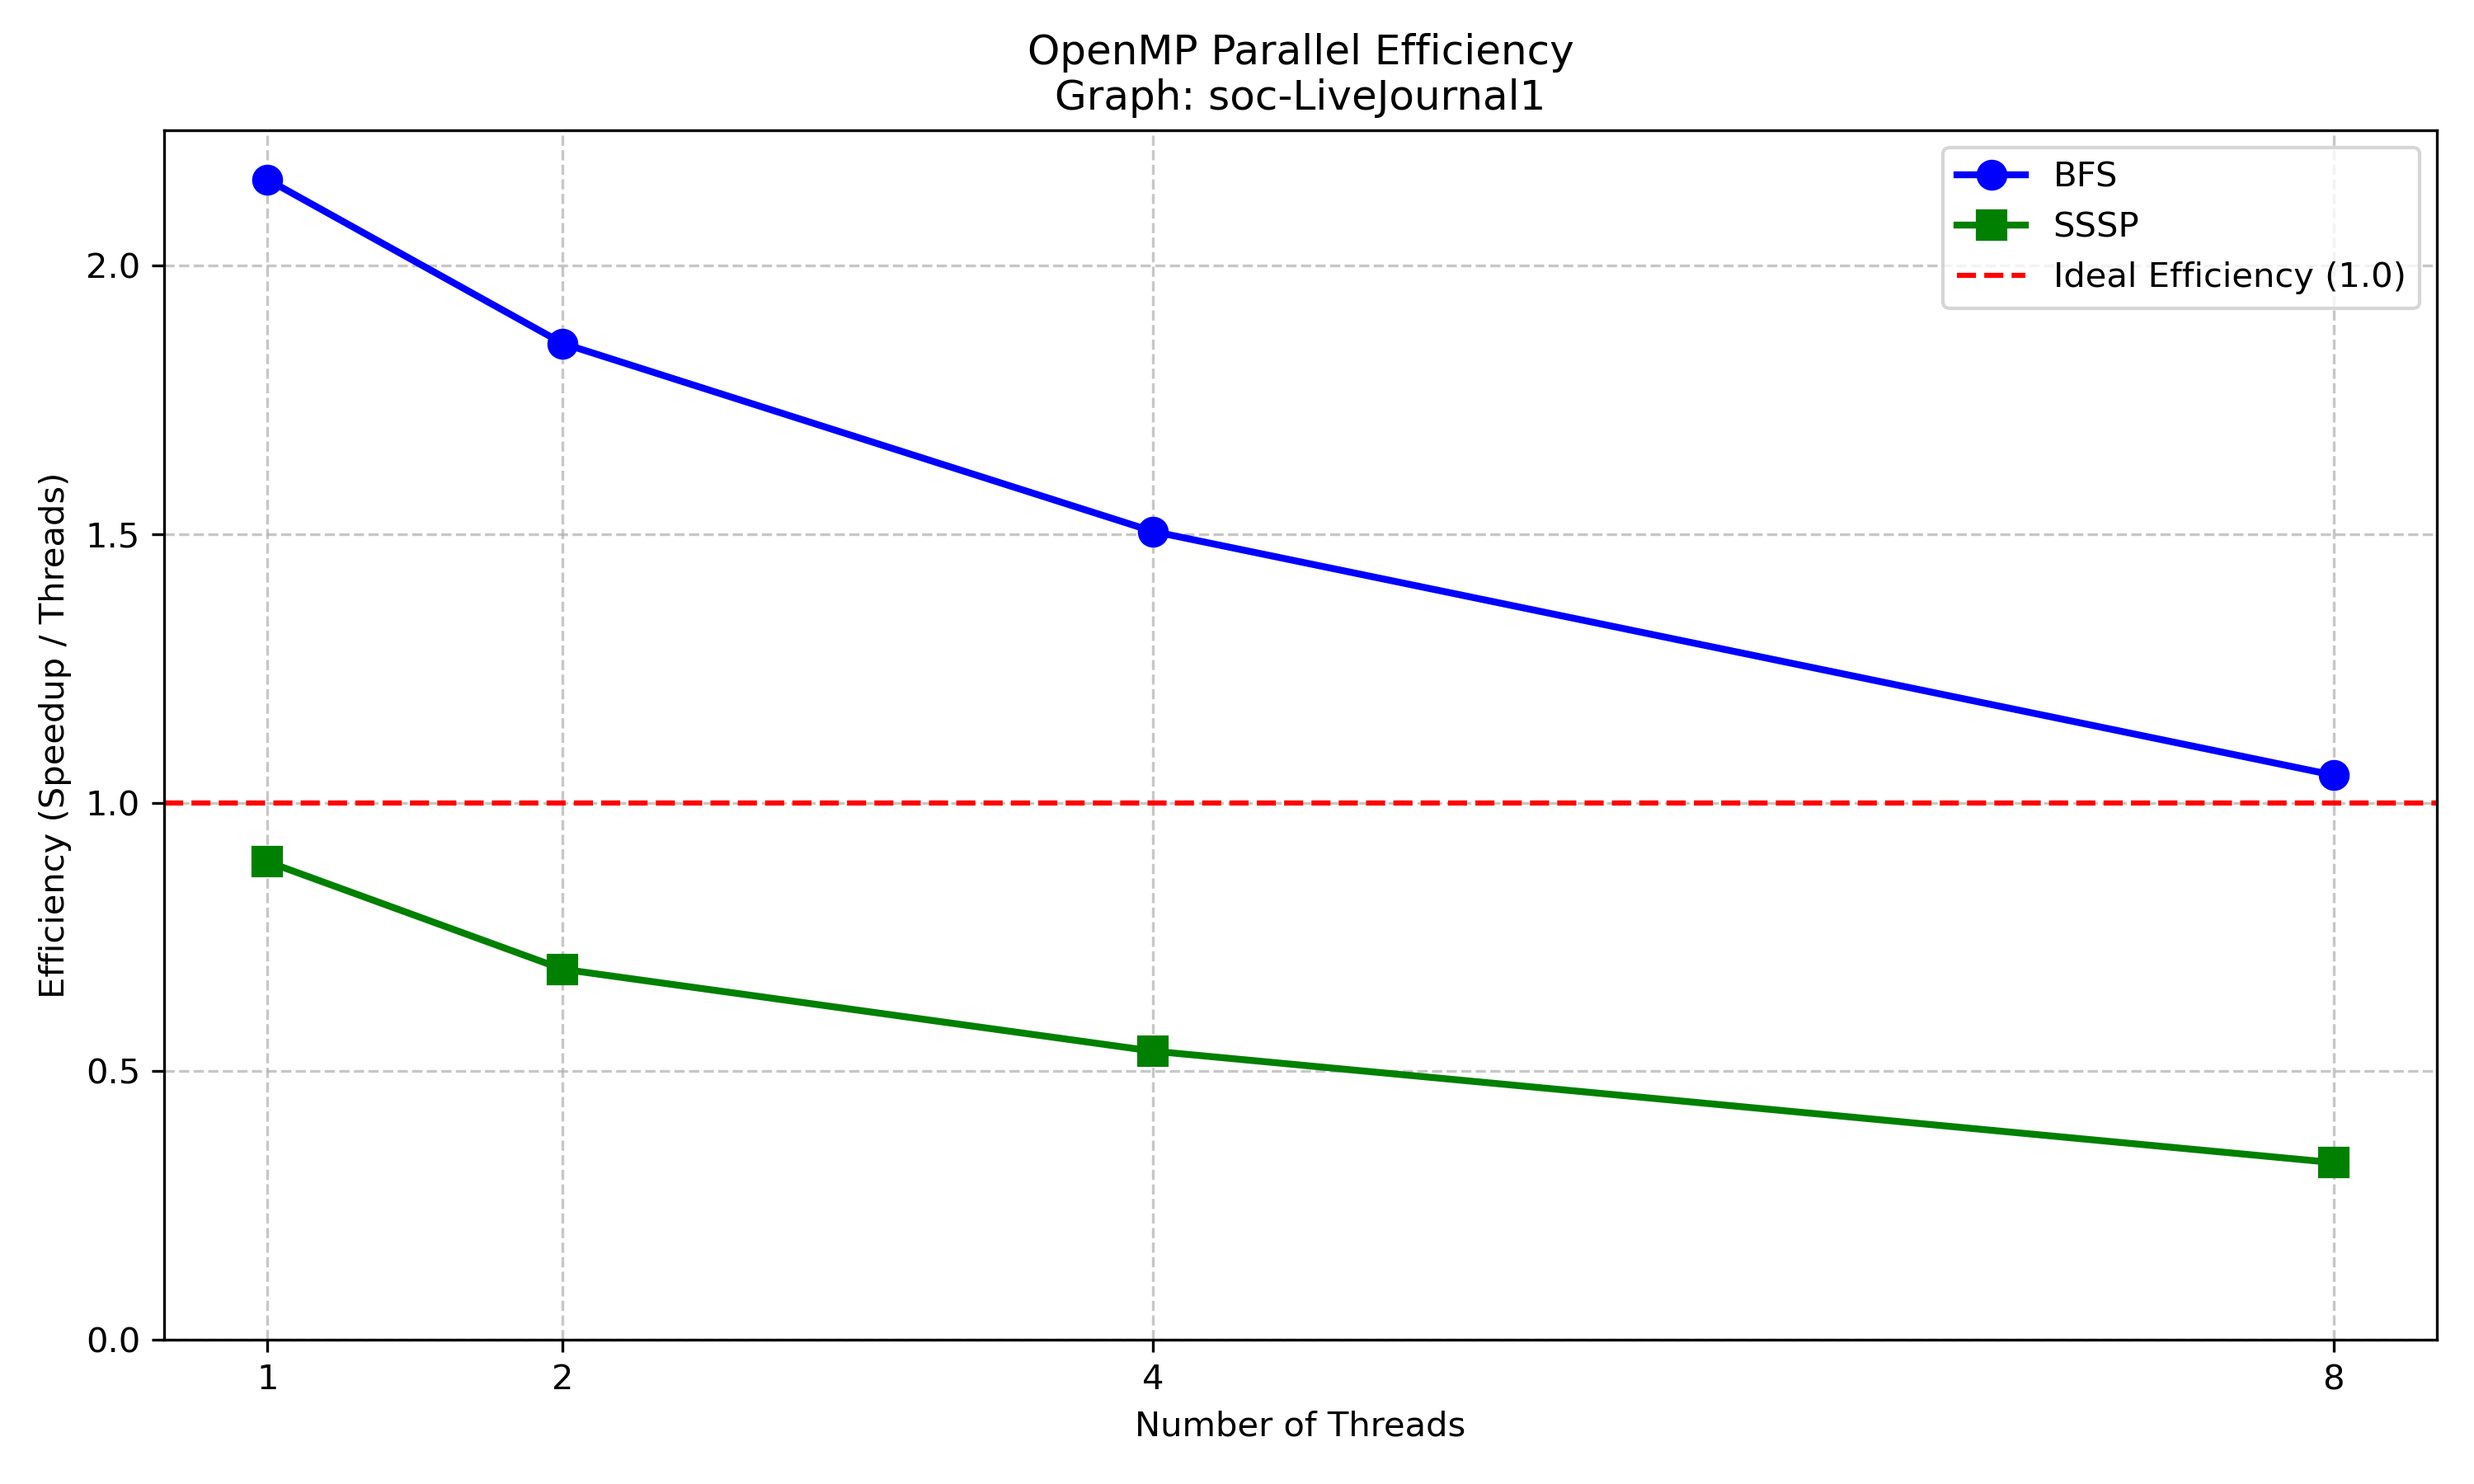
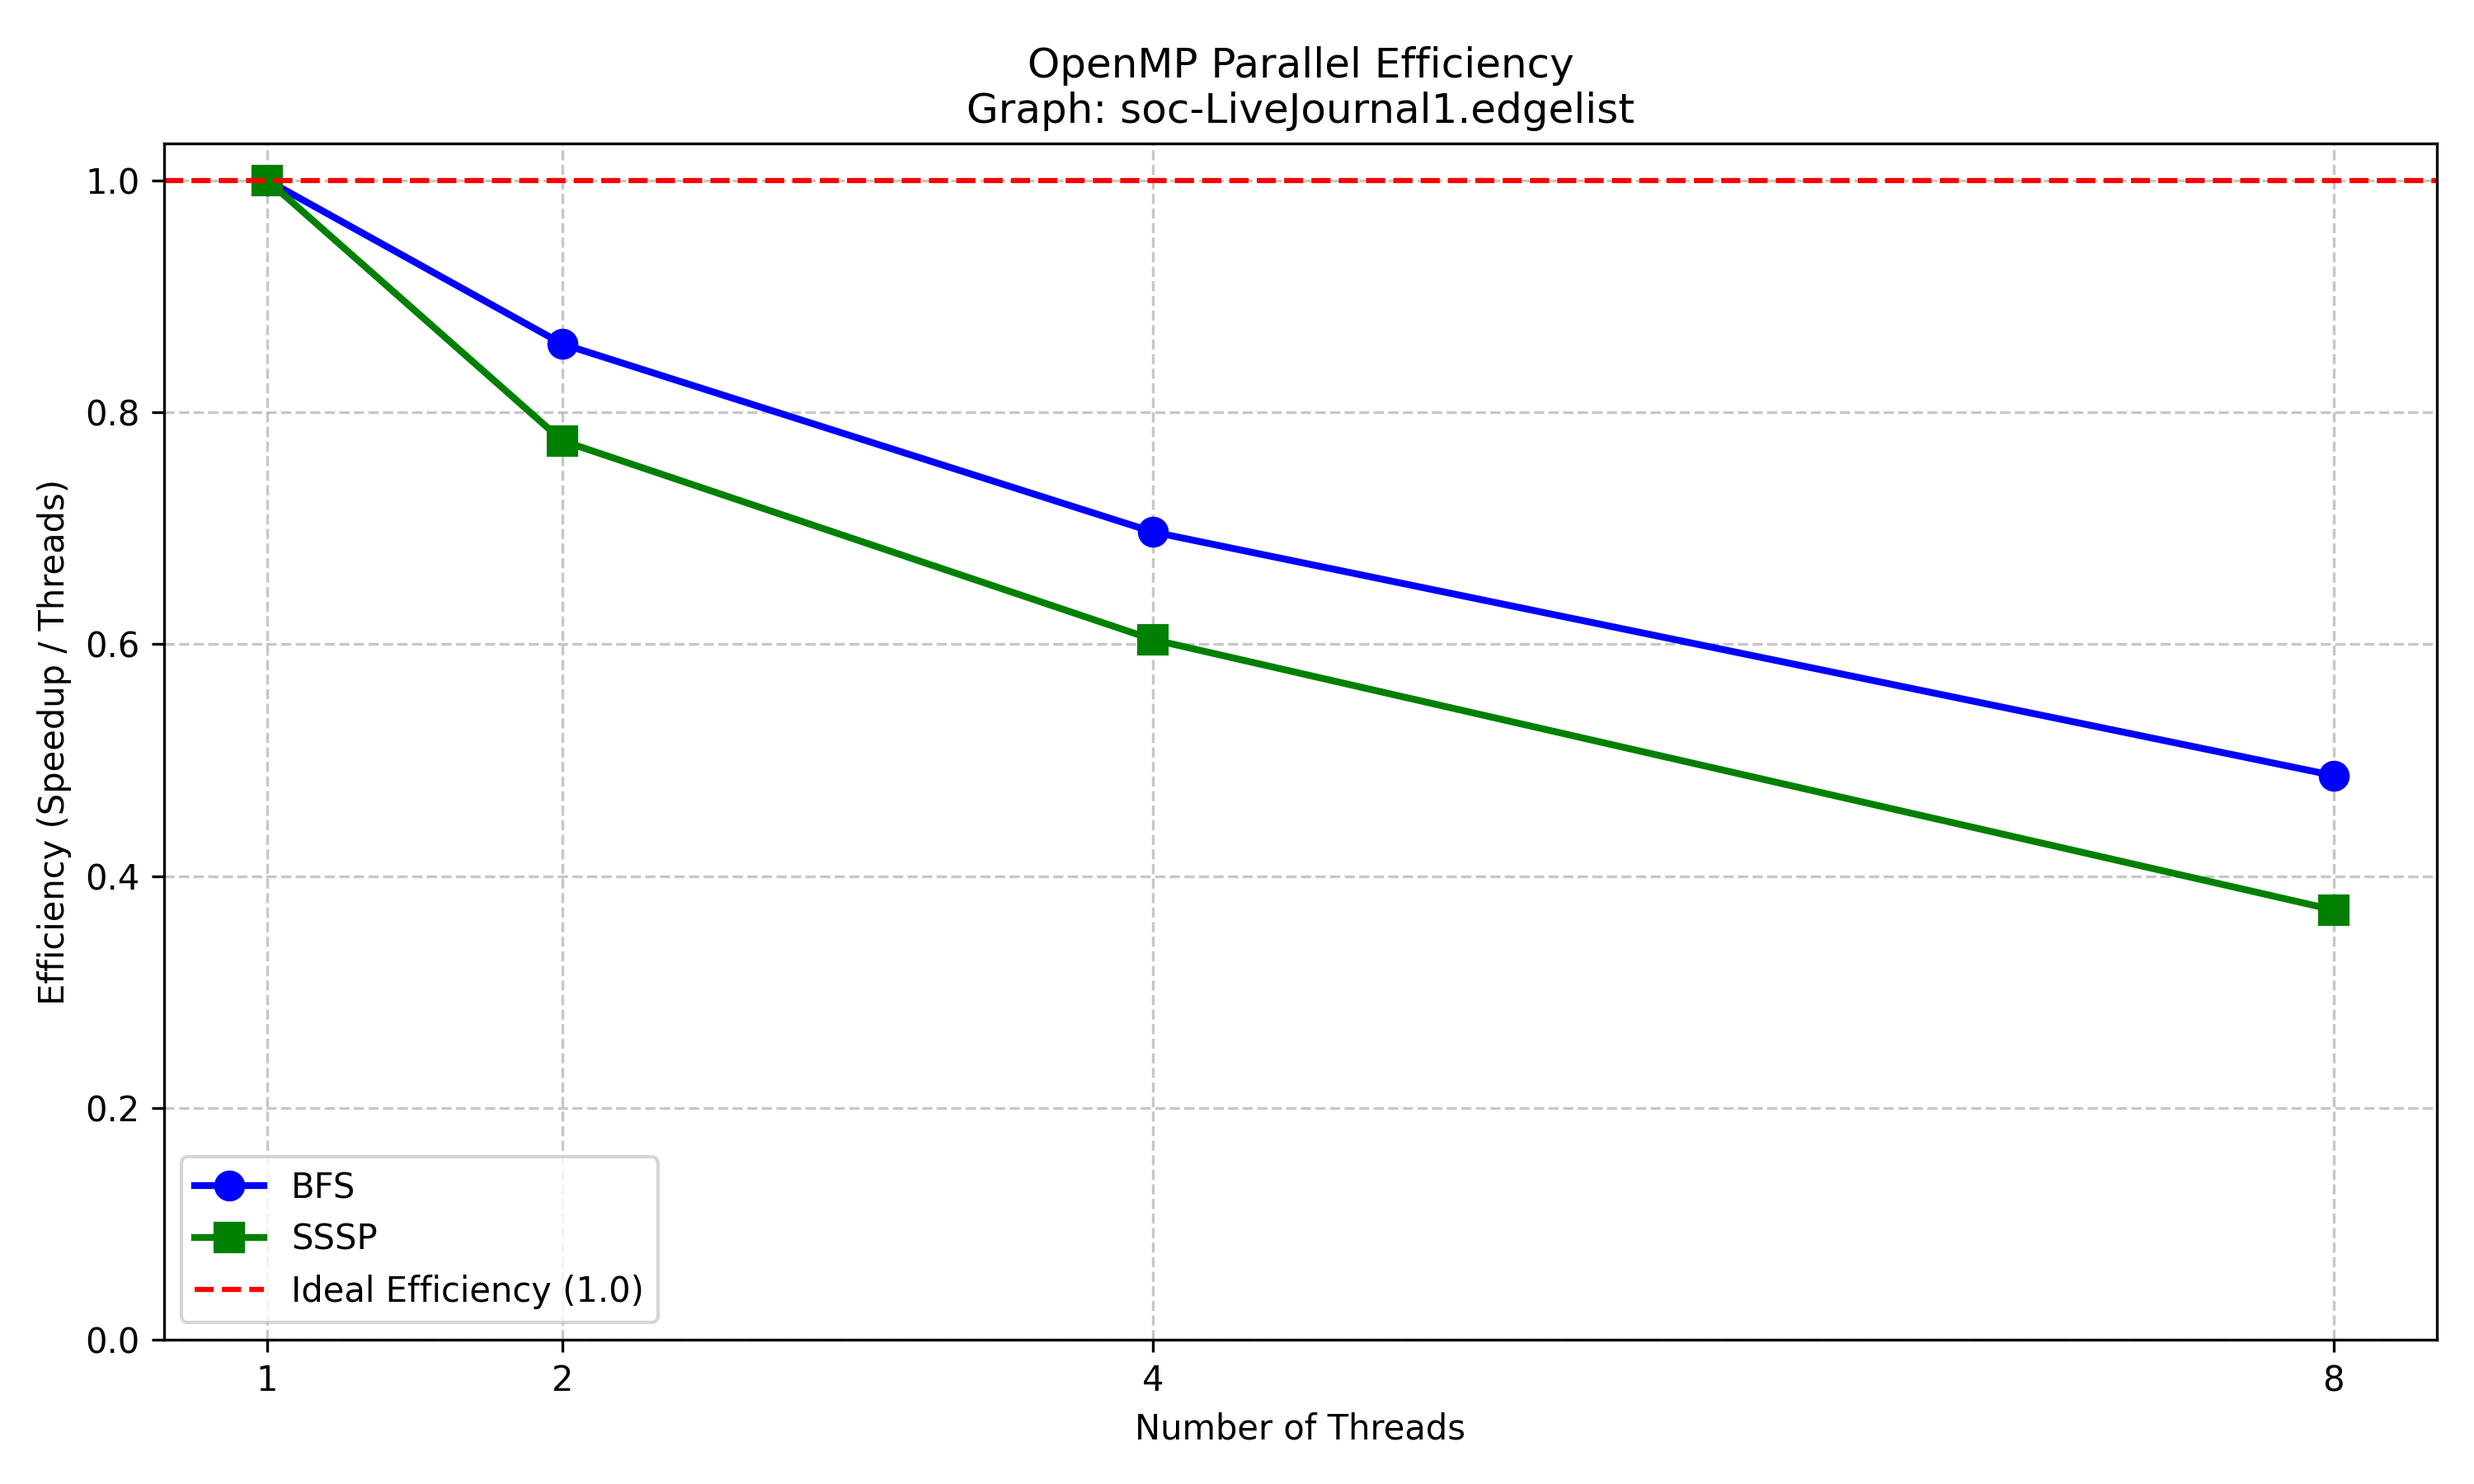
Fix imbalance metric (max per-thread work) and efficiency formula; regenerate real-graph plots

diff --git a/scripts/calc_imbalance.py b/scripts/calc_imbalance.py
@@ -1,6 +1,7 @@
 #!/usr/bin/env python3
 import sys
 import os
+import math
 import argparse
 from collections import defaultdict
 
@@ -27,7 +28,7 @@ def main():
                 # It's the V E header
                 first_line = False
                 continue
-            
+
             first_line = False
             if len(parts) >= 2:
                 u = int(parts[0])
@@ -45,7 +46,7 @@ def main():
 
     # Convert degrees to a list
     deg_list = [degrees[i] for i in range(V)]
-    
+
     max_degree = max(deg_list)
     mean_degree = num_edges / V
 
@@ -56,34 +57,30 @@ def main():
     print(f" Edges (E)    : {num_edges:,}")
     print(f" Max Degree   : {max_degree:,}")
     print(f" Mean Degree  : {mean_degree:.2f}")
-    
+
     print("\n=======================================================")
-    print(" LOAD IMBALANCE METRICS (Max / Mean per-thread edge-work)")
+    print(" GPU LOAD-BALANCING METRICS")
     print("=======================================================")
 
-    # 1. Thread-per-vertex
-    # Each thread processes 1 vertex. Max work = max_degree. Mean work = mean_degree.
+    # --- Headline metric: MAX per-thread serial work (the critical path; predicts runtime) ---
+    tpv_max_work  = max_degree                     # one thread does the whole vertex's edges
+    warp_max_work = math.ceil(max_degree / 32.0)   # hub split across 32 warp lanes
+    edge_max_work = 1                              # one edge per thread
+    warp_reduction = tpv_max_work / warp_max_work if warp_max_work > 0 else 1.0
+
+    print(" MAX PER-THREAD WORK  (critical path -- lower is better)")
+    print("-------------------------------------------------------")
+    print(f" [1] Thread-per-vertex : {tpv_max_work:,} edges   (worst thread handles the full {max_degree:,}-degree hub)")
+    print(f" [2] Warp-per-vertex   : {warp_max_work:,} edges   ({warp_reduction:.1f}x less -- 32 lanes share the hub)")
+    print(f" [3] Thread-per-edge   : {edge_max_work} edge      (perfectly flat)")
+
+    print("\n MAX / MEAN RATIO  (classic imbalance; valid for vertex- and edge-mapping)")
+    print("-------------------------------------------------------")
     tpv_imbalance = max_degree / mean_degree if mean_degree > 0 else 1.0
-    print(f" [1] GPU Thread-per-vertex : {tpv_imbalance:.2f}x")
-    print(f"     -> One thread processes the {max_degree}-degree influencer, while the average thread processes {mean_degree:.1f} edges.")
+    print(f" [1] Thread-per-vertex : {tpv_imbalance:.2f}x")
+    print(f" [3] Thread-per-edge   : 1.00x (perfect balance)")
+    print("  (Warp ratio omitted: dividing by mean-over-launched-threads is distorted by idle lanes.)")
 
-    # 2. Warp-per-vertex
-    # Each warp (32 threads) processes 1 vertex. 
-    # Thread work for vertex v is ceil(degree / 32).
-    import math
-    max_warp_thread_work = max(math.ceil(d / 32.0) for d in deg_list)
-    # Total threads launched = V * 32. Total work = E.
-    mean_warp_thread_work = num_edges / (V * 32.0)
-    wpv_imbalance = max_warp_thread_work / mean_warp_thread_work if mean_warp_thread_work > 0 else 1.0
-    
-    print(f" [2] GPU Warp-per-vertex   : {wpv_imbalance:.2f}x")
-    print(f"     -> Max thread work drops to {max_warp_thread_work} edges. 32 threads cooperatively process influencers.")
-
-    # 3. Thread-per-edge
-    # Each thread processes exactly 1 edge. Max work = 1, Mean work = 1.
-    print(f" [3] GPU Thread-per-edge   : 1.00x (Perfect Balance)")
-    print(f"     -> Work is perfectly distributed regardless of degree skew.")
-    
     print("=======================================================\n")
 
 if __name__ == "__main__":

diff --git a/scripts/visualize_results.py b/scripts/visualize_results.py
@@ -90,7 +90,14 @@ def plot_parallel_efficiency(summary_csv, target_graph, outdir):
     omp_df = omp_df.drop_duplicates(subset=['algorithm', 'strategy', 'threads'], keep='last')
     
     speedup_col = 'speedup_mean' if 'speedup_mean' in omp_df.columns else 'speedup'
-    omp_df['efficiency'] = omp_df[speedup_col] / omp_df['threads']
+    # Normalise to the 1-thread OpenMP run so efficiency = 1.0 at p=1,
+    # not to the separate sequential baseline (which caused efficiency > 1).
+    base_map = (omp_df[omp_df['threads'] == 1]
+                .set_index('algorithm')[speedup_col].to_dict())
+    omp_df['efficiency'] = omp_df.apply(
+        lambda r: r[speedup_col] / (base_map.get(r['algorithm'], 1.0) * r['threads']),
+        axis=1
+    )
     
     plt.figure(figsize=(10, 6))
     
